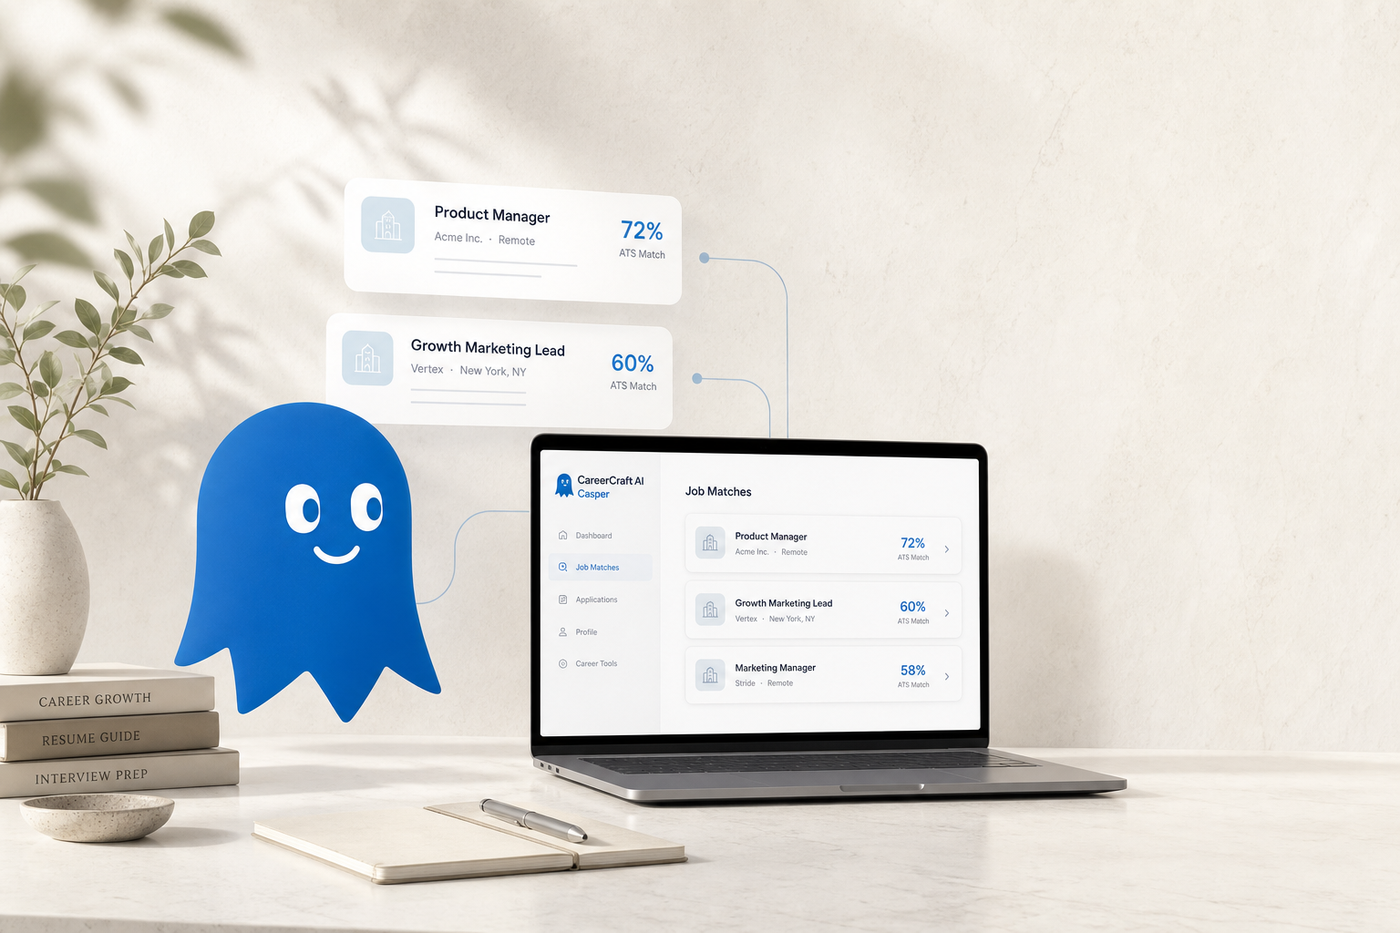
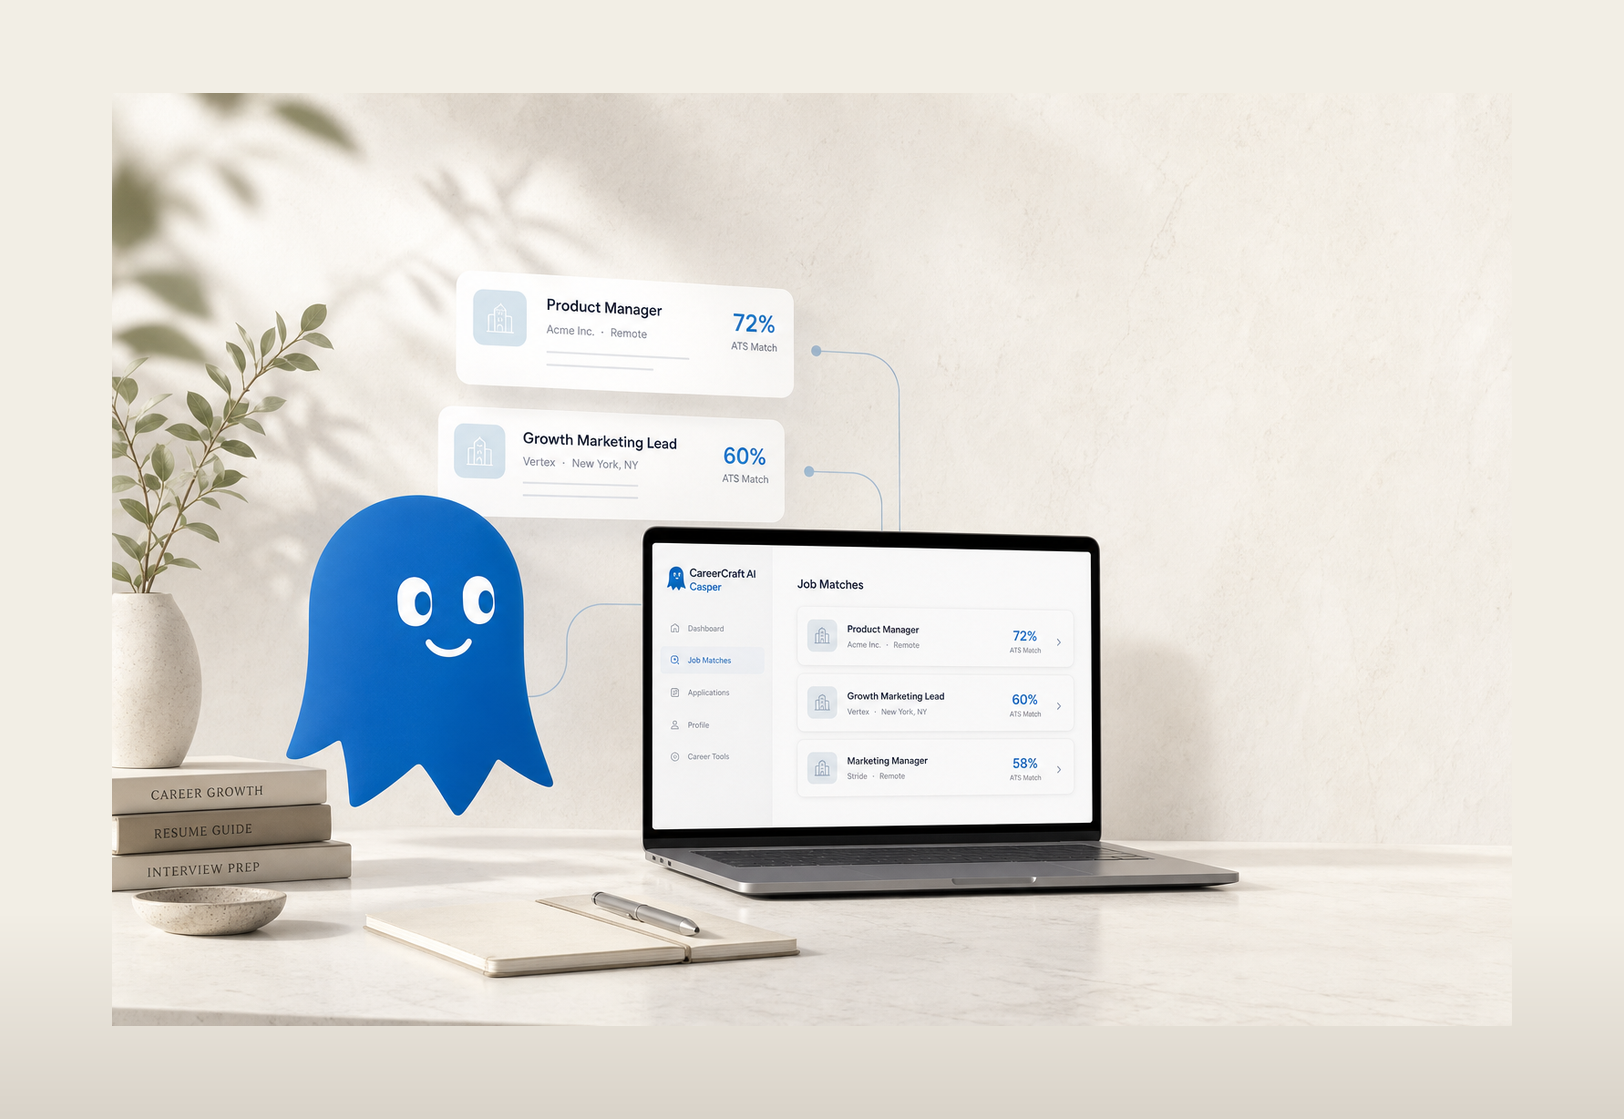
Show full hero illustration without crop; pad art for breathing room.

Changed region(s): [[0.0, 0.0, 0.8293, 1.0], [0.86, 0.9636, 1.0, 1.0]]

diff --git a/docs/styles.css b/docs/styles.css
@@ -446,9 +446,11 @@ body.nav-open .backdrop {
   border-radius: 24px;
   overflow: hidden;
   box-shadow: var(--shadow), var(--glow);
-  background: var(--surface);
+  background: #f2eee5;
   align-self: stretch;
   display: flex;
+  align-items: center;
+  justify-content: center;
   min-height: 100%;
   border: 1px solid var(--line-soft);
 }
@@ -457,8 +459,9 @@ body.nav-open .backdrop {
   width: 100%;
   height: 100%;
   min-height: 520px;
-  object-fit: cover;
+  object-fit: contain;
   object-position: center;
+  display: block;
 }
 
 .hero-brand {

diff --git a/docs/index.html b/docs/index.html
@@ -127,7 +127,7 @@
         </ul>
       </div>
       <figure class="hero-art">
-        <img src="assets/illustrations/hero-casper-hunt.png" width="1536" height="1024" alt="Casper helping you score LinkedIn jobs and track your hunt" fetchpriority="high" />
+        <img src="assets/illustrations/hero-casper-hunt.png" width="1624" height="1119" alt="Casper helping you score LinkedIn jobs and track your hunt" fetchpriority="high" />
       </figure>
     </section>
 
